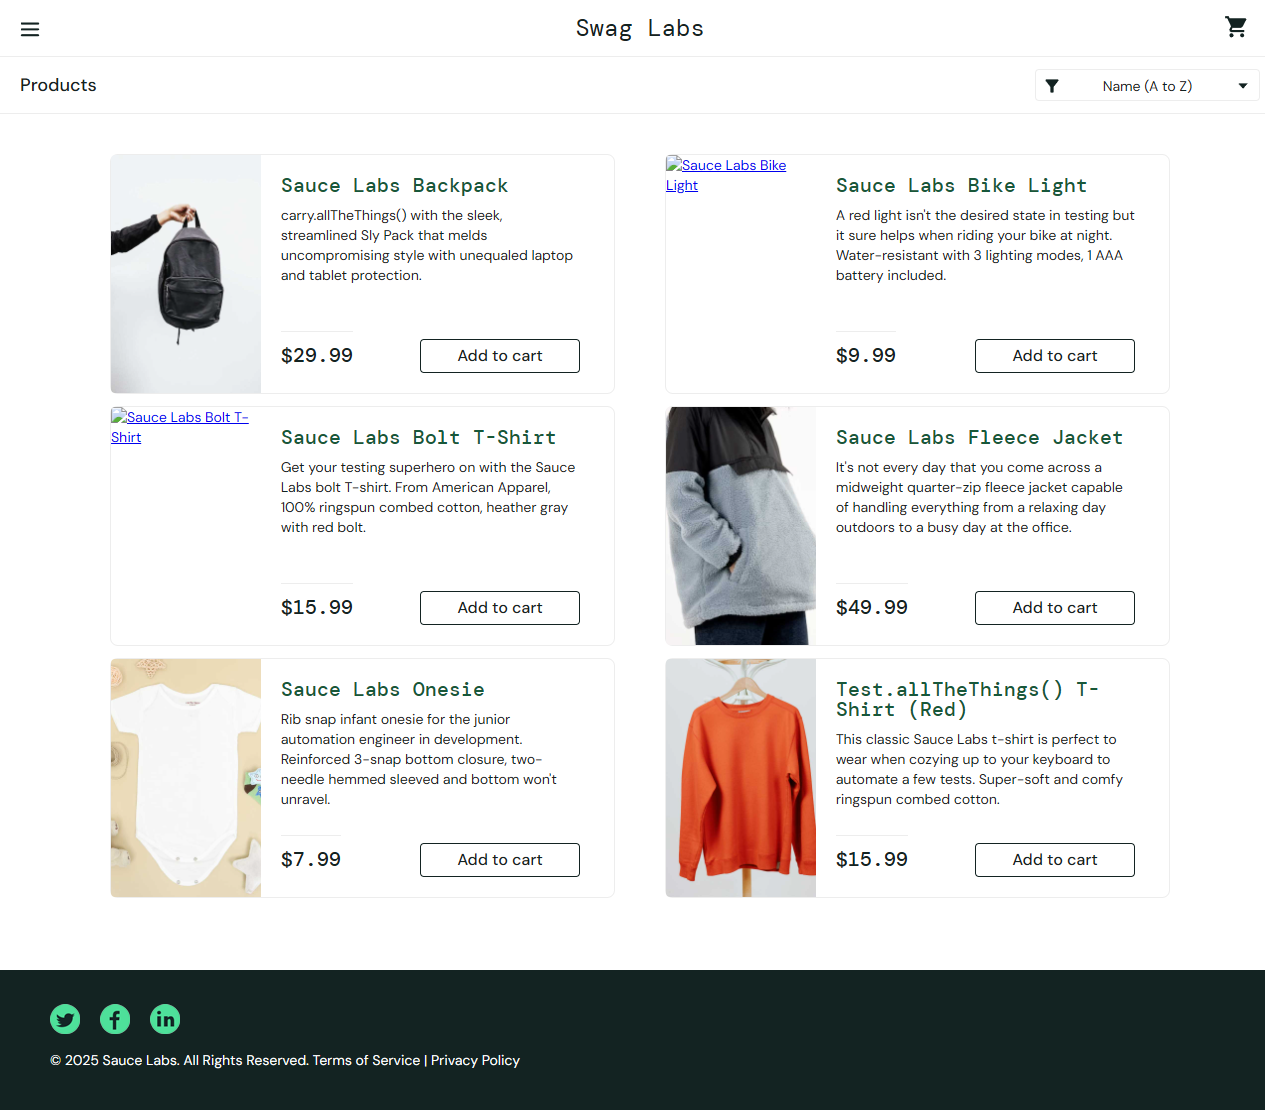
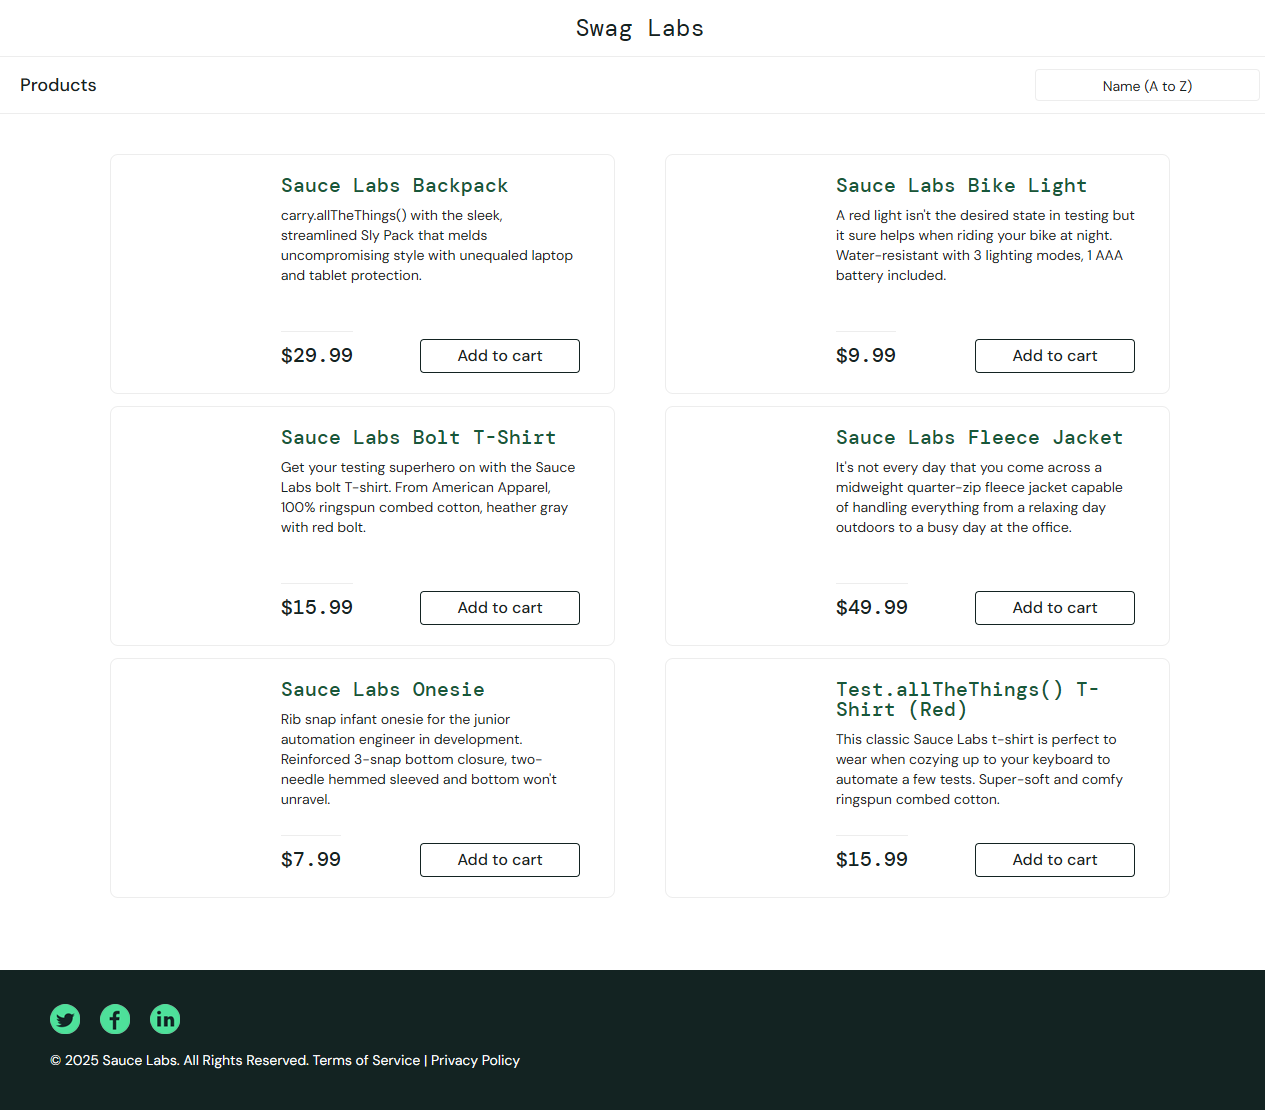
Usando expresión regular para  bloqueando todo tipo de formatos de imágen en el test

diff --git a/tests/interceptor.spec.ts b/tests/interceptor.spec.ts
@@ -5,18 +5,14 @@ test('purchase an item 2', async ({ page }) => {
     
     await page.on("request", (req) => {
         console.log(req.url())
-    })
-
+    });
+    
     await page.route(
-        "https://www.saucedemo.com/static/media/bike-light-1200x1500.37c843b0.jpg",
+        //usando expresión regular, bloqueando todo tipo de formatos de imágenes 
+        "**/*.{png.jpg.jpeg.svg}",
         (route) => route.abort()
     );
     
-    await page.route(
-        "https://www.saucedemo.com/static/media/bolt-shirt-1200x1500.c2599ac5.jpg",
-        (route) => route.abort()
-    );
-
     await page.goto("https://saucedemo.com");
     const login = new LoginPage(page);
     await login.loginWithCredentials("standard_user", "secret_sauce");
